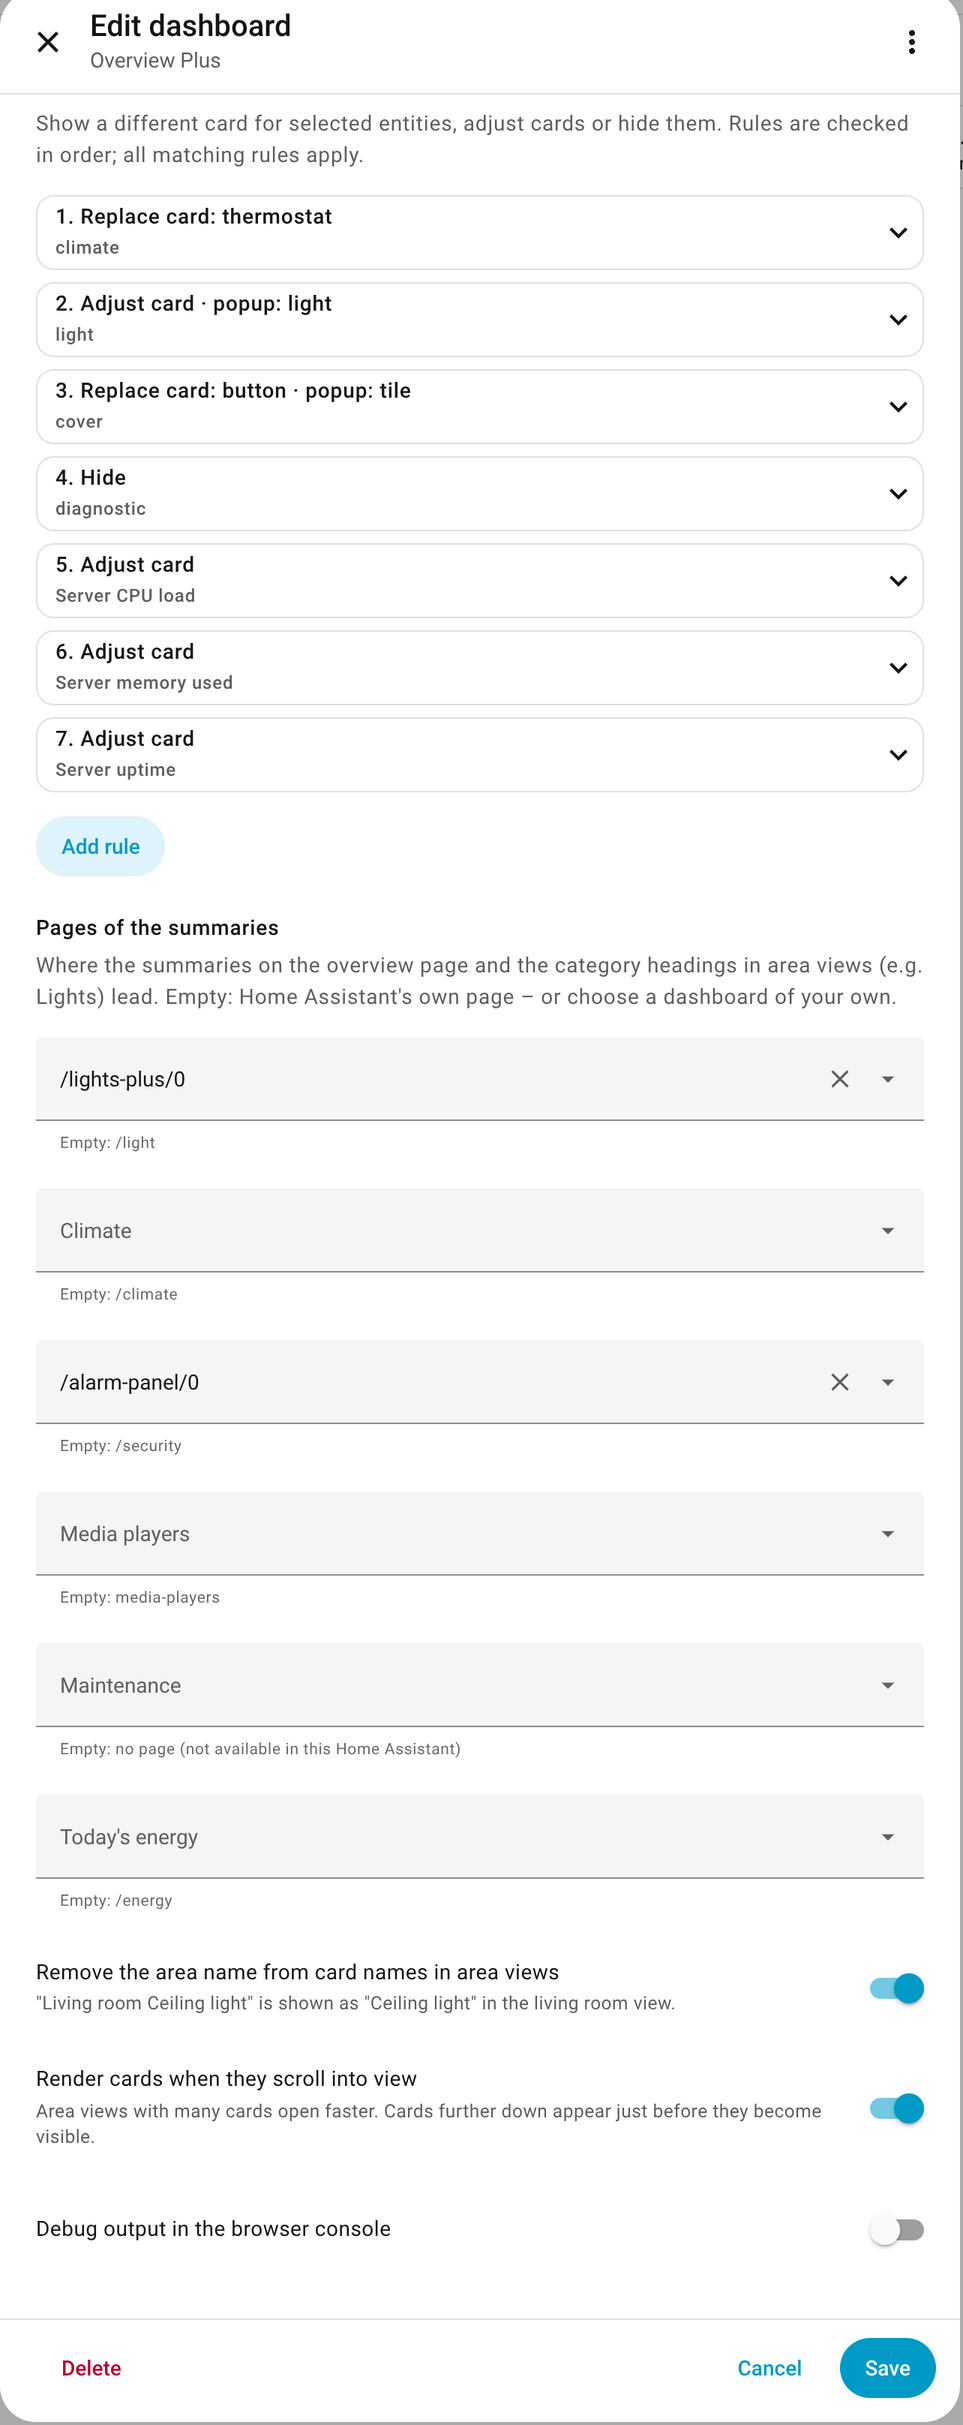
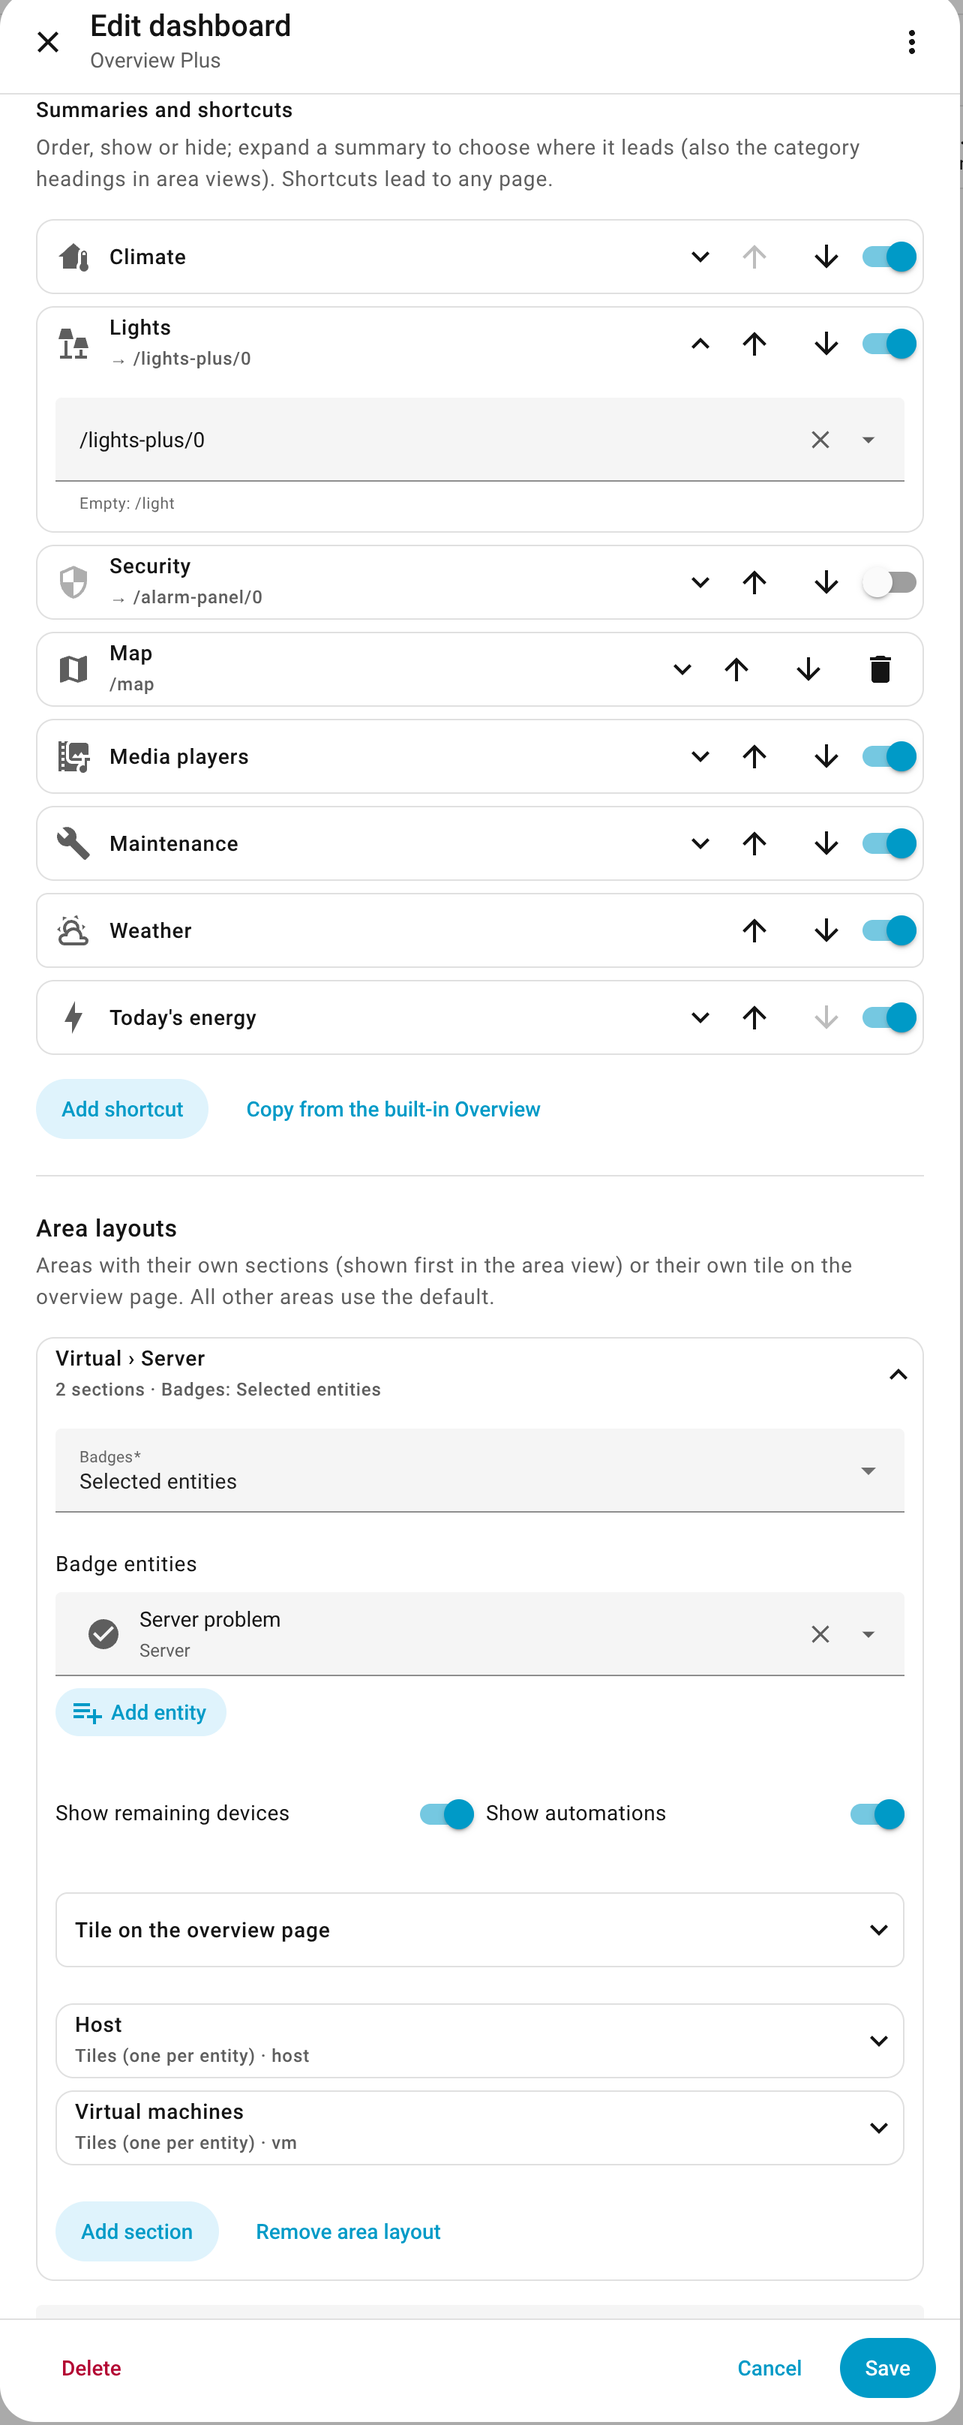
fix: set the page of a summary on the summary itself
The pages of the summaries were a separate block under General. Each
summary in "Summaries and shortcuts" is now a collapsible entry: its
order and visibility controls stay in the header, expanding it shows the
page it leads to. With the built-in overview settings, the list shows
the summaries with only their page. Shortcuts get the same header
controls. README text and screenshots updated.

diff --git a/src/editor/editor.js b/src/editor/editor.js
@@ -53,9 +53,11 @@ const STYLE = `
   .home-items { margin: 8px 0 16px; }
   .item-row { display: flex; align-items: center; gap: 12px; min-height: 48px; padding: 0 4px 0 12px;
     border: 1px solid var(--divider-color); border-radius: var(--ha-border-radius-md, 12px); }
-  .item-row .label { flex: 1; }
-  .item-row.off .label, .item-row.off ha-icon { opacity: 0.5; }
-  .item-row ha-icon { color: var(--secondary-text-color); }
+  .item-row { gap: 0; }
+  .item-row .label { flex: 1; margin-left: 12px; font-weight: var(--ha-font-weight-medium, 500); }
+  .item-row.off .label, .item-row.off ha-icon, .summary-panel.off .summary-icon { opacity: 0.5; }
+  .item-row ha-icon, .summary-icon { color: var(--secondary-text-color); }
+  .summary-panel .summary-icon { margin-right: 12px; }
   .home-actions { margin-top: 8px; }
   .rule-actions { margin-bottom: 24px; }
   .general > ha-form { display: block; margin-bottom: 24px; }
@@ -141,6 +143,8 @@ class OverviewPlusStrategyEditor extends HTMLElement {
     this._openRules = new Set();
     /** @type {Set<number>} indexes of expanded shortcut blocks */
     this._openShortcuts = new Set();
+    /** @type {Set<string>} keys of expanded summary blocks */
+    this._openSummaries = new Set();
     /** @type {any} */
     this._opts = undefined;
     /** @type {string | undefined} config last sent to Home Assistant */
@@ -193,7 +197,7 @@ class OverviewPlusStrategyEditor extends HTMLElement {
   }
 
   /** @param {any} schema */
-  _label = (schema) => (schema.name?.startsWith("sp_") ? this._t(schema.name.slice(3)) : this._t(`editor_${schema.name}`));
+  _label = (schema) => (schema.name?.startsWith("sp_") ? this._t("editor_sp_page") : this._t(`editor_${schema.name}`));
 
   /** @param {any} schema */
   _helper = (schema) => {
@@ -279,8 +283,9 @@ class OverviewPlusStrategyEditor extends HTMLElement {
    * @param {string} secondary
    * @param {boolean} expanded
    * @param {(expanded: boolean) => void} onToggle
+   * @param {{ leading?: HTMLElement, icons?: HTMLElement[] }} [extras] icon before the header, controls after it
    */
-  _panel(header, secondary, expanded, onToggle) {
+  _panel(header, secondary, expanded, onToggle, extras = {}) {
     if (customElements.get("ha-expansion-panel")) {
       const panel = /** @type {any} */ (document.createElement("ha-expansion-panel"));
       panel.header = header;
@@ -288,6 +293,14 @@ class OverviewPlusStrategyEditor extends HTMLElement {
       panel.expanded = expanded;
       panel.outlined = true;
       panel.addEventListener("expanded-changed", (/** @type {any} */ ev) => onToggle(ev.detail.expanded));
+      if (extras.leading) {
+        extras.leading.slot = "leading-icon";
+        panel.appendChild(extras.leading);
+      }
+      for (const icon of extras.icons || []) {
+        icon.slot = "icons";
+        panel.appendChild(icon);
+      }
       const body = document.createElement("div");
       body.className = "panel-body";
       panel.appendChild(body);
@@ -309,6 +322,12 @@ class OverviewPlusStrategyEditor extends HTMLElement {
     const body = document.createElement("div");
     body.className = "panel-body";
     details.append(summary, body);
+    if (extras.icons?.length) {
+      const row = document.createElement("div");
+      row.className = "row";
+      row.append(...extras.icons);
+      body.append(row);
+    }
     details.addEventListener("toggle", () => onToggle(details.open));
     const setHeader = (/** @type {string} */ h, /** @type {string} */ s) => { title.textContent = h; sub.textContent = s; };
     setHeader(header, secondary);
@@ -383,18 +402,6 @@ class OverviewPlusStrategyEditor extends HTMLElement {
       this._hint("editor_card_rules_help"),
       this._parts.rules,
       ruleActions,
-      this._subheading("editor_summary_pages"),
-      this._hint("editor_summary_pages_help"),
-      this._haForm(
-        SUMMARY_PAGE_KEYS.map((key) => ({ name: `sp_${key}`, selector: { navigation: {} } })),
-        Object.fromEntries(SUMMARY_PAGE_KEYS.map((key) => [`sp_${key}`, this._form.summary_pages[key] ?? ""])),
-        (v) => {
-          this._form.summary_pages = Object.fromEntries(
-            SUMMARY_PAGE_KEYS.map((key) => [key, v[`sp_${key}`] || undefined]).filter(([, page]) => page)
-          );
-          this._emit();
-        }
-      ),
       this._haForm(
         [
           { name: "strip_area_names", selector: { boolean: {} } },
@@ -494,7 +501,11 @@ class OverviewPlusStrategyEditor extends HTMLElement {
     if (!own) {
       const hint = this._hint("editor_h_source_builtin_hint");
       hint.style.marginTop = "8px";
-      block.append(hint);
+      const list = document.createElement("div");
+      list.className = "list home-items";
+      block.append(hint, this._subheading("editor_summary_pages"), this._hint("editor_summary_pages_help"), list);
+      // Order and visibility come from the built-in Overview; only the pages are set here
+      for (const key of SUMMARY_PAGE_KEYS) list.append(this._summaryPanel({ type: "summary", key }));
       return;
     }
 
@@ -537,6 +548,83 @@ class OverviewPlusStrategyEditor extends HTMLElement {
     block.append(actions);
   }
 
+  /** @param {string} key */
+  _summaryIcon(key) {
+    const icon = /** @type {any} */ (document.createElement("ha-icon"));
+    icon.icon = /** @type {Record<string, string>} */ (SUMMARY_KEY_ICONS)[key] || "mdi:view-dashboard";
+    icon.className = "summary-icon";
+    return icon;
+  }
+
+  /**
+   * Switch that shows or hides a summary.
+   * @param {any} item
+   * @param {() => void} onChange
+   */
+  _summaryToggle(item, onChange) {
+    const toggle = /** @type {any} */ (document.createElement(customElements.get("ha-switch") ? "ha-switch" : "input"));
+    if (toggle.localName === "input") toggle.type = "checkbox";
+    toggle.checked = !item.hidden;
+    toggle.title = this._t("editor_show");
+    toggle.setAttribute("aria-label", `${this._t("editor_show")}: ${this._t(item.key)}`);
+    // inside a panel header: do not expand or collapse the panel
+    toggle.addEventListener("click", (/** @type {Event} */ ev) => ev.stopPropagation());
+    toggle.addEventListener("change", () => {
+      if (toggle.checked) delete item.hidden;
+      else item.hidden = true;
+      onChange();
+      this._emit();
+    });
+    return toggle;
+  }
+
+  /**
+   * Summary without a page of its own (weather): a plain row.
+   * @param {any} item
+   * @param {HTMLElement[]} controls
+   */
+  _summaryRow(item, controls) {
+    const row = document.createElement("div");
+    row.className = "item-row";
+    const label = document.createElement("span");
+    label.className = "label";
+    label.textContent = this._t(item.key);
+    row.append(this._summaryIcon(item.key), label, ...controls);
+    return row;
+  }
+
+  /**
+   * Summary with the page it leads to; expanding it shows the page field.
+   * @param {any} item
+   * @param {HTMLElement[]} [controls] order and visibility (own settings only)
+   */
+  _summaryPanel(item, controls = []) {
+    const key = item.key;
+    const pageText = () => (this._form.summary_pages[key] ? `→ ${this._form.summary_pages[key]}` : "");
+    const panel = this._panel(this._t(key), pageText(), this._openSummaries.has(key), (open) => {
+      if (open) this._openSummaries.add(key);
+      else this._openSummaries.delete(key);
+    }, { leading: this._summaryIcon(key), icons: controls });
+    panel.root.classList.add("summary-panel");
+    panel.body.append(
+      this._haForm(
+        [{ name: `sp_${key}`, selector: { navigation: {} } }],
+        { [`sp_${key}`]: this._form.summary_pages[key] ?? "" },
+        (v) => {
+          const page = v[`sp_${key}`];
+          if (page) this._form.summary_pages = { ...this._form.summary_pages, [key]: page };
+          else {
+            const { [key]: _removed, ...rest } = this._form.summary_pages;
+            this._form.summary_pages = rest;
+          }
+          panel.setHeader(this._t(key), pageText());
+          this._emit();
+        }
+      )
+    );
+    return panel.root;
+  }
+
   /** @param {HTMLElement} list */
   _renderHomeItems(list) {
     list.innerHTML = "";
@@ -561,33 +649,31 @@ class OverviewPlusStrategyEditor extends HTMLElement {
 
     items.forEach((/** @type {any} */ item, /** @type {number} */ index) => {
       if (item.type === "summary") {
-        const row = document.createElement("div");
-        row.className = `item-row${item.hidden ? " off" : ""}`;
-        const icon = /** @type {any} */ (document.createElement("ha-icon"));
-        icon.icon = /** @type {Record<string, string>} */ (SUMMARY_KEY_ICONS)[item.key] || "mdi:view-dashboard";
-        const label = document.createElement("span");
-        label.className = "label";
-        label.textContent = this._t(item.key);
-        const toggle = /** @type {any} */ (document.createElement(customElements.get("ha-switch") ? "ha-switch" : "input"));
-        if (toggle.localName === "input") toggle.type = "checkbox";
-        toggle.checked = !item.hidden;
-        toggle.title = this._t("editor_show");
-        toggle.setAttribute("aria-label", `${this._t("editor_show")}: ${label.textContent}`);
-        toggle.addEventListener("change", () => {
-          if (toggle.checked) delete item.hidden;
-          else item.hidden = true;
-          row.classList.toggle("off", !!item.hidden);
-          this._emit();
-        });
-        row.append(icon, label, ...moveButtons(index), toggle);
+        const toggle = this._summaryToggle(item, () => row.classList.toggle("off", !!item.hidden));
+        const controls = [...moveButtons(index), toggle];
+        const row = SUMMARY_PAGE_KEYS.includes(item.key) ? this._summaryPanel(item, controls) : this._summaryRow(item, controls);
+        row.classList.toggle("off", !!item.hidden);
         list.append(row);
         return;
       }
       const header = () => item.label || item.path || this._t("editor_shortcut_new");
+      const leading = /** @type {any} */ (document.createElement("ha-icon"));
+      leading.icon = item.icon || "mdi:link";
+      leading.className = "summary-icon";
+      const controls = [
+        ...moveButtons(index),
+        this._iconButton(ICON.delete, this._t("editor_delete_shortcut"), () => {
+          items.splice(index, 1);
+          this._openShortcuts = new Set([...this._openShortcuts].filter((i) => i !== index).map((i) => (i > index ? i - 1 : i)));
+          rerender();
+          this._emit();
+        }),
+      ];
       const panel = this._panel(header(), item.label ? item.path || "" : "", this._openShortcuts.has(index), (open) => {
         if (open) this._openShortcuts.add(index);
         else this._openShortcuts.delete(index);
-      });
+      }, { leading, icons: controls });
+      panel.root.classList.add("summary-panel");
       const form = this._haForm(
         [
           { name: "s_path", required: true, selector: { navigation: {} } },
@@ -603,22 +689,12 @@ class OverviewPlusStrategyEditor extends HTMLElement {
           item.label = v.s_label || undefined;
           item.icon = v.s_icon || undefined;
           item.color = v.s_color || undefined;
+          leading.icon = item.icon || "mdi:link";
           panel.setHeader(header(), item.label ? item.path || "" : "");
           this._emit();
         }
       );
-      const row = document.createElement("div");
-      row.className = "row icons";
-      row.append(
-        ...moveButtons(index),
-        this._iconButton(ICON.delete, this._t("editor_delete_shortcut"), () => {
-          items.splice(index, 1);
-          this._openShortcuts = new Set([...this._openShortcuts].filter((i) => i !== index).map((i) => (i > index ? i - 1 : i)));
-          rerender();
-          this._emit();
-        })
-      );
-      panel.body.append(form, row);
+      panel.body.append(form);
       list.append(panel.root);
     });
   }

diff --git a/src/i18n.js b/src/i18n.js
@@ -37,7 +37,8 @@ const STRINGS = {
     editor_areas: "Area layouts",
     editor_areas_help: "Areas with their own sections (shown first in the area view) or their own tile on the overview page. All other areas use the default.",
     editor_summary_pages: "Pages of the summaries",
-    editor_summary_pages_help: "Where the summaries on the overview page and the category headings in area views (e.g. Lights) lead. Empty: Home Assistant's own page – or choose a dashboard of your own.",
+    editor_summary_pages_help: "Expand a summary to choose where it leads – also the category headings in area views (e.g. Lights). Order and visibility are set in the built-in Overview.",
+    editor_sp_page: "Page",
     editor_sp_default: "Empty: {page}",
     editor_sp_none: "Empty: no page (not available in this Home Assistant)",
     editor_home: "Overview page",
@@ -54,7 +55,7 @@ const STRINGS = {
     editor_h_alerts: "Alert entities",
     editor_h_alerts_help: "Shown as an alert at the top of the overview page while active (e.g. open door, triggered alarm).",
     editor_summaries: "Summaries and shortcuts",
-    editor_summaries_help: "Order, hide summaries, add shortcuts to any page.",
+    editor_summaries_help: "Order, show or hide; expand a summary to choose where it leads (also the category headings in area views). Shortcuts lead to any page.",
     editor_add_shortcut: "Add shortcut",
     editor_shortcut_new: "New shortcut",
     editor_delete_shortcut: "Delete shortcut",
@@ -245,7 +246,8 @@ const STRINGS = {
     editor_areas: "Bereichs-Layouts",
     editor_areas_help: "Bereiche mit eigenen Abschnitten (erscheinen in der Bereichs-Ansicht zuerst) oder eigener Kachel auf der Startseite. Alle anderen Bereiche nutzen den Standard.",
     editor_summary_pages: "Seiten der Zusammenfassungen",
-    editor_summary_pages_help: "Wohin die Zusammenfassungen der Startseite und die Kategorie-Überschriften der Bereiche (z. B. Licht) führen. Leer: die eigene Seite von Home Assistant – oder ein eigenes Dashboard wählen.",
+    editor_summary_pages_help: "Zusammenfassung aufklappen, um zu wählen, wohin sie führt – auch die Kategorie-Überschriften der Bereiche (z. B. Licht). Reihenfolge und Sichtbarkeit stellst du im eingebauten Overview ein.",
+    editor_sp_page: "Seite",
     editor_sp_default: "Leer: {page}",
     editor_sp_none: "Leer: keine Seite (in diesem Home Assistant nicht verfügbar)",
     editor_home: "Startseite",
@@ -262,7 +264,7 @@ const STRINGS = {
     editor_h_alerts: "Warnungs-Entitäten",
     editor_h_alerts_help: "Erscheinen als Warnung oben auf der Startseite, solange sie aktiv sind (z. B. offene Tür, ausgelöster Alarm).",
     editor_summaries: "Zusammenfassungen und Shortcuts",
-    editor_summaries_help: "Reihenfolge, Zusammenfassungen ausblenden, Shortcuts zu beliebigen Seiten.",
+    editor_summaries_help: "Reihenfolge, ein- oder ausblenden; Zusammenfassung aufklappen, um zu wählen, wohin sie führt (auch die Kategorie-Überschriften der Bereiche). Shortcuts führen zu beliebigen Seiten.",
     editor_add_shortcut: "Shortcut hinzufügen",
     editor_shortcut_new: "Neuer Shortcut",
     editor_delete_shortcut: "Shortcut löschen",

diff --git a/test/editor.test.js b/test/editor.test.js
@@ -42,6 +42,12 @@ const areaPanels = (editor) => [...root(editor).querySelectorAll("details.area-p
 const summary = (panel) => panel.querySelector(":scope > summary").textContent;
 const areaPanel = (editor, name) => areaPanels(editor).find((p) => summary(p).startsWith(name));
 
+/** Labels of the summaries and shortcuts list (panels and plain rows). */
+const homeItemLabels = (editor) =>
+  [...root(editor).querySelectorAll(".home-items > *")].map((el) =>
+    el.matches("details") ? el.querySelector(":scope > summary > span").textContent : el.querySelector(".label").textContent
+  );
+
 const TWO_AREAS = {
   type: "custom:overview-plus",
   area_overrides: {
@@ -332,7 +338,7 @@ test("overview page: built-in settings by default, own settings as form fields",
   const own = setup({ type: "custom:overview-plus", load_home_settings: false, favorite_entities: ["light.lamp"], shortcuts: [{ type: "summary", key: "energy" }] });
   const fields = formWith(root(own.editor), "h_favorites");
   assert.deepEqual(fields.data.h_favorites, ["light.lamp"]);
-  const rows = [...root(own.editor).querySelectorAll(".item-row .label")].map((l) => l.textContent);
+  const rows = homeItemLabels(own.editor);
   assert.equal(rows[0], "Today's energy", "summaries in the saved order");
   assert.equal(rows.length, 7);
 });
@@ -343,7 +349,7 @@ test("overview page: editing favorites, hiding a summary, adding a shortcut", ()
   assert.deepEqual(last().favorite_entities, ["light.lamp", "climate.living"]);
   assert.equal(last().hide_welcome_message, true);
 
-  const toggle = root(editor).querySelector(".item-row input");
+  const toggle = root(editor).querySelector(".home-items input[type=checkbox]");
   toggle.checked = false;
   toggle.dispatchEvent(new Event("change"));
   assert.deepEqual(last().shortcuts[0], { type: "summary", key: "light", hidden: true });
@@ -374,4 +380,19 @@ test("overview page: switching to own settings copies those of the built-in Over
   edit(formWith(root(editor), "h_source"), { h_source: "builtin" });
   assert.equal(last().load_home_settings, undefined);
   assert.deepEqual(last().favorite_entities, ["light.ceiling"]);
+});
+
+test("summary pages are set on the summary itself, also with the built-in settings", () => {
+  const own = setup({ type: "custom:overview-plus", load_home_settings: false });
+  const lights = formWith(root(own.editor), "sp_light");
+  assert.ok(lights, "page field inside the Lights summary");
+  assert.equal(formWith(root(own.editor), "sp_weather"), undefined, "weather has no page");
+  edit(lights, { sp_light: "/lights-plus/0" });
+  assert.deepEqual(own.last().summary_pages, { light: "/lights-plus/0" });
+  assert.ok(homeItemLabels(own.editor).includes("Lights"));
+
+  const builtin = setup({ type: "custom:overview-plus", summary_pages: { security: "/alarm" } });
+  assert.equal(formWith(root(builtin.editor), "sp_security").data.sp_security, "/alarm");
+  edit(formWith(root(builtin.editor), "sp_security"), { sp_security: "" });
+  assert.equal(builtin.last().summary_pages, undefined);
 });

diff --git a/README.md b/README.md
@@ -47,7 +47,7 @@ button card that opens a tile with cover controls.
 </tr>
 <tr>
 <td width="50%" valign="top"><b>Card rule</b> – replace a card and show another one in a popup on tap<br><br><img src="https://raw.githubusercontent.com/financelurker/ha-overview-plus/main/docs/images/editor-card-rule.png" alt="Editor: card rule with popup"></td>
-<td width="50%" valign="top"><b>Pages of the summaries</b> – Home Assistant's pages or dashboards of your own<br><br><img src="https://raw.githubusercontent.com/financelurker/ha-overview-plus/main/docs/images/editor-summary-pages.png" alt="Editor: pages of the summaries"></td>
+<td width="50%" valign="top"><b>Summaries</b> – order, show or hide, and the page each one leads to: Home Assistant's own or a dashboard of yours<br><br><img src="https://raw.githubusercontent.com/financelurker/ha-overview-plus/main/docs/images/editor-summary-pages.png" alt="Editor: pages of the summaries"></td>
 </tr>
 </table>
 
@@ -148,7 +148,8 @@ strategy:
 
 Keys: `light`, `climate`, `security`, `media_players`, `maintenance`, `energy`. Not set: Home
 Assistant's page (`/light`, `/climate`, …; media players: the media players view of Overview Plus).
-In the editor: *General → Pages of the summaries*.
+In the editor: *Overview page → Summaries and shortcuts* – expand a summary to choose its page (with
+the built-in settings, the list shows only the pages).
 
 | Option | Description |
 |---|---|
